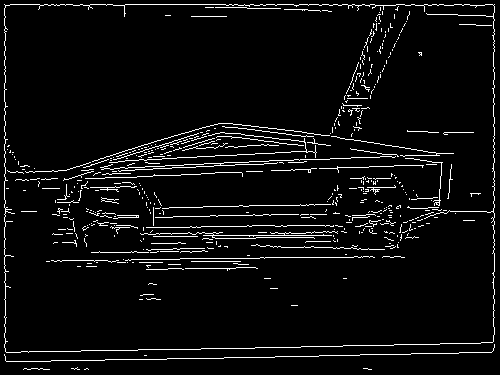
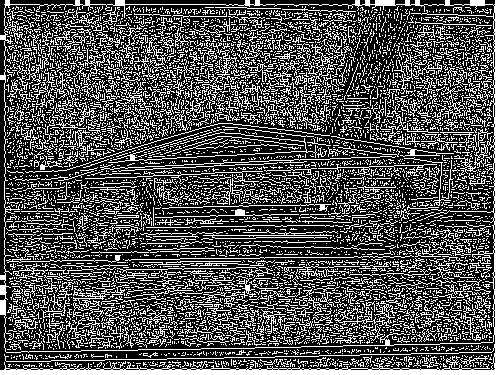
added multi patch threshold

diff --git a/code/edgeDetector.py b/code/edgeDetector.py
@@ -1,5 +1,6 @@
 import cv2 as cv
 import numpy as np
+from itertools import product
 
 
 class CannyEdgeDetector:
@@ -64,19 +65,19 @@ class CannyEdgeDetector:
                 intensity = np.linalg.norm(edge[i, j])
                 angle = angles[i, j]
                 if 0 <= angle < 22.5 or 157.5 <= angle < 180:
-                    front = np.linalg.norm(edge[i, j + 1])
-                    back = np.linalg.norm(edge[i, j - 1])
+                    front = np.linalg.norm(edge[i, j + 1])  # right pixel
+                    back = np.linalg.norm(edge[i, j - 1])  # left pixel
                 elif 22.5 <= angle < 67.5:
-                    front = np.linalg.norm(edge[i - 1, j + 1])
-                    back = np.linalg.norm(edge[i + 1, j - 1])
+                    front = np.linalg.norm(edge[i - 1, j + 1])  # top right pixel
+                    back = np.linalg.norm(edge[i + 1, j - 1])  # bottom left pixel
                 elif 67.5 <= angle < 112.5:
-                    front = np.linalg.norm(edge[i + 1, j])
-                    back = np.linalg.norm(edge[i - 1, j])
+                    front = np.linalg.norm(edge[i + 1, j])  # bottom pixel
+                    back = np.linalg.norm(edge[i - 1, j])  # top pixel
                 elif 112.5 <= angle < 157.5:
-                    front = np.linalg.norm(edge[i - 1, j - 1])
-                    back = np.linalg.norm(edge[i + 1, j + 1])
+                    front = np.linalg.norm(edge[i - 1, j - 1])  # top left pixel
+                    back = np.linalg.norm(edge[i + 1, j + 1])  # bottom right pixel
                 if intensity >= front and intensity >= back:
-                    result[i, j] = edge[i, j]
+                    result[i, j] = edge[i, j]  # if this pixel is the brightest among neighbors
                 else:
                     result[i, j] = 0
         self._images['suppress'] = result
@@ -101,8 +102,45 @@ class CannyEdgeDetector:
         result[weak_r, weak_c] = 20
         return result, 20, 255
 
+    def multi_patch_double_threshold(self, low, high, patch_size):
+        if patch_size > min(self._images['suppress'].shape[:2]):
+            return self.double_threshold(low, high)  # patch size too large, ignore multi-patch
+        if low >= 1 or high >= 1:
+            print("low and high must be less than 0")
+            exit(1)
+        if low > high:
+            print("low must be smaller than high")
+            exit(1)
+        image = self._images['suppress']
+        n_row, n_col = image.shape
+        result = np.zeros((n_row, n_col))
+        # divide into patches
+        row_s, row_e, col_s, col_e = 0, 0, 0, 0  # s for start, e for end
+        while row_e < n_row:
+            row_e = row_s + patch_size if row_s + patch_size < n_row else n_row
+            col_s, col_e = 0, 0
+            while col_e < n_col:
+                col_e = col_s + patch_size if col_s + patch_size < n_col else n_col
+                patch = image[row_s:row_e, col_s:col_e].copy()  # copy a patch from the image
+                max_intensity = patch.max()  # obtain local max intensity
+                high_threshold = max_intensity * high
+                low_threshold = max_intensity * low
+                strong_r, strong_c = np.where(patch >= high_threshold)  # find strong pixels with high threshold
+                weak_r, weak_c = np.where(
+                    (low_threshold < patch) & (patch < high_threshold))  # find weak pixels with thresholds
+                # update patch pixels intensity
+                patch[strong_r, strong_c] = 255
+                patch[weak_r, weak_c] = 20
+                # copy patch pixels to result image
+                result[row_s:row_e, col_s:col_e] = patch
+                col_s = col_e
+            row_s = row_e
+        return result, 20, 255
+
     def hysteresis(self, weak, strong):
         surroundings = [(-1, -1), (-1, 0), (-1, 1), (0, -1), (0, 1), (1, -1), (1, 0), (1, 1)]
+        # surroundings = list(product(np.mgrid[-1:2], np.mgrid[-1:2]))
+        # surroundings.pop(4)
         image = self._images['threshold']
         row, col = image.shape
         for i in range(1, row - 1):
@@ -139,28 +177,38 @@ def convolution(source_image, gaussian_kernel):
             out_image[i, j] = conv_sum
     return out_image
 
+
 def run(source_image):
     ed = CannyEdgeDetector()
     g_filter = ed.gaussian_filter()
     filename = source_image
+    # read image
     ed.read_image(filename, 'source')
     image = np.array(ed.get_image('source'))
+    # convert to grayscale image
     if image.shape[2] > 1:
         image = cv.cvtColor(image, cv.COLOR_BGR2GRAY)
+    # use a gaussian filter to minimize image noise (blur)
     out = convolution(image, g_filter)
     ed.store_image('blurred', out)
+    # save blurred image
     ed.write_image('blur.png', 'blurred')
+    # find gradient intensity
     edge, theta = ed.calculate_gradient()
     ed.store_image('edge', edge)
     ed.write_image('edge.png', 'edge')
+    # Edge thinning, keep only the pixels with highest intensity in their neighborhoods
     ed.non_maximum_suppression(theta * 180 / np.pi)
     ed.write_image('suppress.png', 'suppress')
+    # double threshold, separate "strong edge from weak edge pixels
     threshold, weak, strong = ed.double_threshold(0.03, 0.1)
     ed.store_image('threshold', threshold)
     ed.write_image('threshold.png', 'threshold')
+    # Hysteresis keep only the pixels that belong to, or are connected to "strong edges"
     result = ed.hysteresis(weak, strong)
     ed.store_image('result', result)
     ed.write_image('result.png', 'result')
+
 
 def run2(source_image):
     ed = CannyEdgeDetector()
@@ -190,6 +238,7 @@ def run2(source_image):
     # result = cv.pyrUp(result)
     ed.store_image('result', result)
     ed.write_image('result.png', 'result')
+
 
 if __name__ == "__main__":
     run2('source.png')

diff --git a/code/main.py b/code/main.py
@@ -12,6 +12,10 @@ def parse_arguments(argv, prog=''):
     parser.add_argument('-v', '--verbose', action='store_true', help='print verbose')
     parser.add_argument('--sigma', help='sigma value', default=1, type=int)
     parser.add_argument('--kernel_size', help='kernel size value', default=1, type=int)
+    parser.add_argument('-mp', '--multiple_patch', action='store_true',
+                        help='Indicate whether multiple-patch modification should be applied')
+    parser.add_argument('-ps', '--patch_size', type=int, default=None,
+                        help='patch size, total number of pixels will be patch_size^2')
     args, unprocessed_argv = parser.parse_known_args(argv)
     print("Source Image: {}".format(args.source))
     print("Output Image: {}".format(args.output))
@@ -19,12 +23,25 @@ def parse_arguments(argv, prog=''):
     return args, unprocessed_argv
 
 
+def args_check(args):
+    # args check for multiple patch:
+    if args.multiple_patch:
+        if not args.patch_size:
+            print("Multiple patch selected but patch size not selected")
+            exit(1)
+
+
 def main(argv, prog=''):
     args, unprocessed_argv = parse_arguments(argv, prog)
+    args_check(args)
     # parse output file name
     parsed_output = os.path.splitext(args.output)
+    filename_setting_addtion = ''
+    if args.multiple_patch:
+        filename_setting_addtion += '-multiple_patch'
     ed = CannyEdgeDetector(sigma=args.sigma, kernel_size=args.kernel_size)
     g_filter = ed.gaussian_filter()
+    print('Reading source image')
     success, msg = ed.read_image(args.source, 'source')
     if not success:
         print(msg)
@@ -32,29 +49,45 @@ def main(argv, prog=''):
     image = np.array(ed.get_image('source'))
     if image.shape[2] > 1:
         image = cv.cvtColor(image, cv.COLOR_BGR2GRAY)
+
+    print('Blur image, apply gaussian filter to reduce noise')
     out = convolution(image, g_filter)
     ed.store_image('blurred', out)
-    success, msg = ed.write_image(parsed_output[0] + '-blur' + parsed_output[1], 'blurred')
+    success, msg = ed.write_image(parsed_output[0] + '-blur' + filename_setting_addtion + parsed_output[1], 'blurred')
     if not success:
         print(msg)
         exit(1)
+
+    print('Calculating gradient and theta')
     edge, theta = ed.calculate_gradient()
     ed.store_image('edge', edge)
-    success, msg = ed.write_image(parsed_output[0] + '-edge' + parsed_output[1], 'edge')
+    success, msg = ed.write_image(parsed_output[0] + '-edge' + filename_setting_addtion + parsed_output[1], 'edge')
     if not success:
         print(msg)
         exit(1)
+
+    print('Non-Max Suppression')
     ed.non_maximum_suppression(theta * 180 / np.pi)
-    success, msg = ed.write_image(parsed_output[0] + '-suppress' + parsed_output[1], 'suppress')
+    success, msg = ed.write_image(parsed_output[0] + '-suppress' + filename_setting_addtion + parsed_output[1],
+                                  'suppress')
     if not success:
         print(msg)
         exit(1)
-    threshold, weak, strong = ed.double_threshold(0.03, 0.1)
+
+    # start multiple patch modification
+    print('Double Threshold')
+    if args.multiple_patch:
+        threshold, weak, strong = ed.multi_patch_double_threshold(0.03, 0.1, args.patch_size)
+    else:
+        threshold, weak, strong = ed.double_threshold(0.03, 0.1)
     ed.store_image('threshold', threshold)
-    success, msg = ed.write_image(parsed_output[0] + '-threshold' + parsed_output[1], 'threshold')
+    success, msg = ed.write_image(parsed_output[0] + '-threshold' + filename_setting_addtion + parsed_output[1],
+                                  'threshold')
     if not success:
         print(msg)
         exit(1)
+
+    print('Hysteresis: Keep only the pixels that belong to, or are connected to "strong edges')
     result = ed.hysteresis(weak, strong)
     ed.store_image('result', result)
     success, msg = ed.write_image(args.output, 'result')
@@ -65,3 +98,8 @@ def main(argv, prog=''):
 
 if __name__ == "__main__":
     main(sys.argv[1:], sys.argv[0])
+
+    # for debug only
+    # main(['-s', '../test_images/car/car.JPG', '-o', '../output/car/car-out.png', '--sigma', '1', '--kernel_size', '5',
+    #       '-mp', '-ps', '5'])
+    # python main.py -s ../test_images/car/car.JPG -o ../output/car/car-out.png --sigma 1 --kernel_size 5

diff --git a/project report/egpaper_for_review.tex b/project report/egpaper_for_review.tex
@@ -47,7 +47,7 @@ We gain a lot benefit from the Canny edge detection algorithm. However, there ar
 \subsection{Possible improvements}
 \begin{enumerate}
 	\item[1.] In stead of using Gaussian filter with user given patch size and sigma, we plan to use Gaussian pyramid instead (using reduce function when pre-process the image, and expand them back when we get the edge).
-	\item[2.] We plans to identify multiple high and low thresholds by dividing image into different patches. For each patch, we calculate thresholds based on the highest intensity of pixel in that patch.
+	\item[2.] We plan to identify multiple high and low thresholds by dividing image into different patches. For each patch, we calculate thresholds based on the highest intensity of pixel in that patch.
 	\item[3.] Using reduce function multiple times to extract only the main features and after we get the edge image, we use expand function the same number of times to make the edge image the same size as the original image.
 \end{enumerate}
 

diff --git a/README.md b/README.md
@@ -8,4 +8,7 @@ python main.py -s ../test_images/car/car.JPG -o ../output/car/car-out.png --sigm
 # or
 python3 main.py -s ../test_images/car/car.JPG -o ../output/car/car-out.png --sigma 1 --kernel_size 5
 # python2 won't work
+
+# for multi patch double threshold
+python main.py -s ../test_images/car/car.JPG -o ../output/car/car-out.png --sigma 1 --kernel_size 5 -mp -ps 5
 ```
